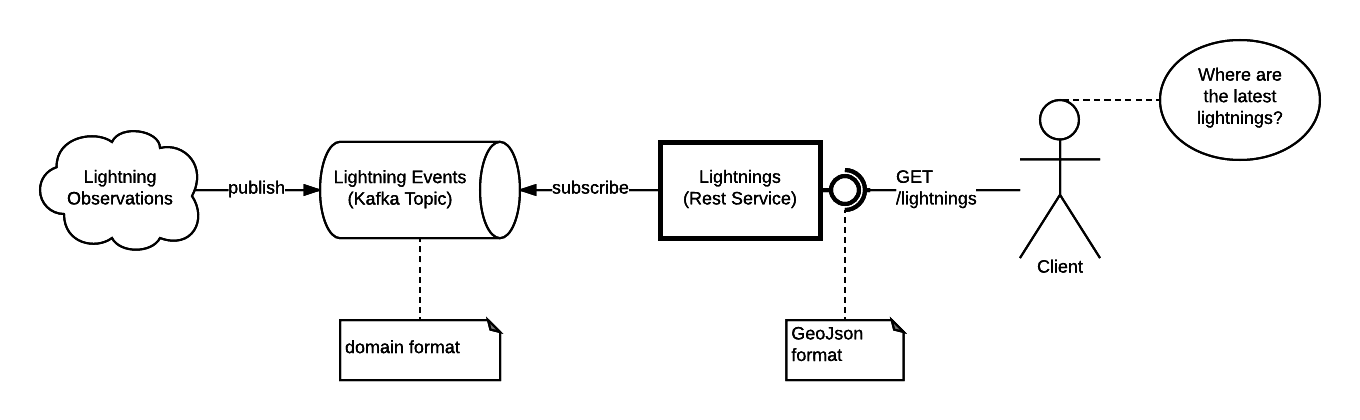
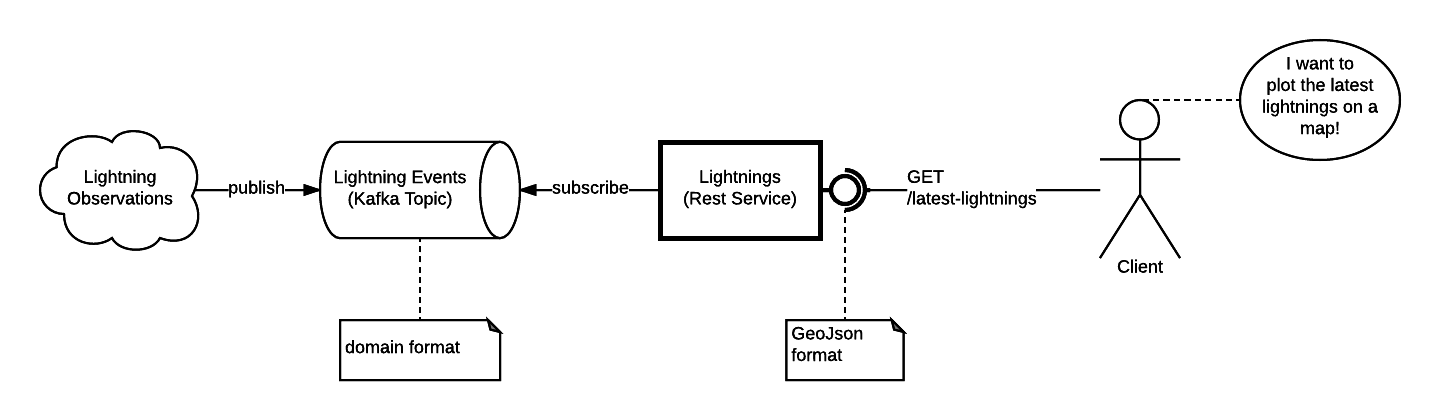
/latest-lightnings

diff --git a/src/main/kotlin/org/dnltsk/springkafka/playground/lightnings/LightningsRestController.kt b/src/main/kotlin/org/dnltsk/springkafka/playground/lightnings/LightningsRestController.kt
@@ -11,7 +11,7 @@ class LightningsRestController @Autowired constructor(
         val lightningsGeoJsonConverter: LightningsGeoJsonConverter
 ) {
 
-    @RequestMapping("/lightnings")
+    @RequestMapping("/latest-lightnings")
     fun getLightnings(): FeatureCollection {
         return lightningsGeoJsonConverter.convert(lightningsRepository.getLightnings())
     }
